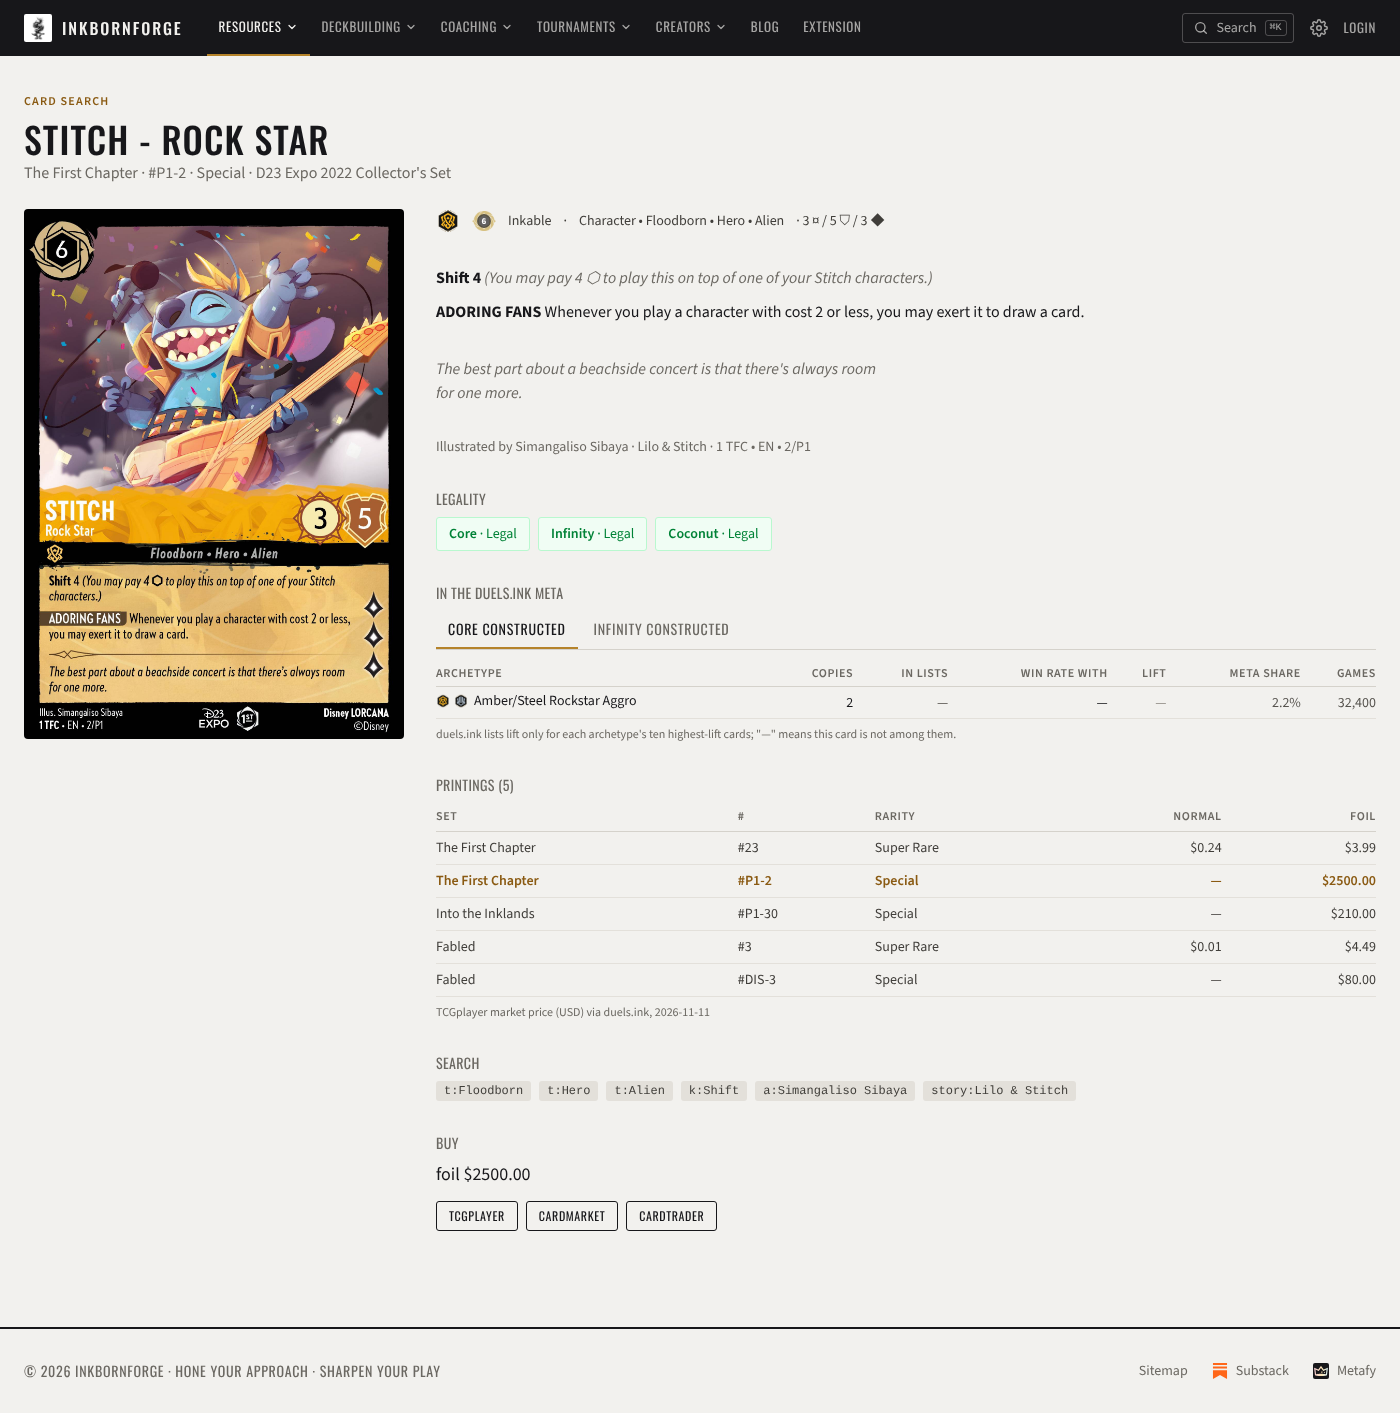
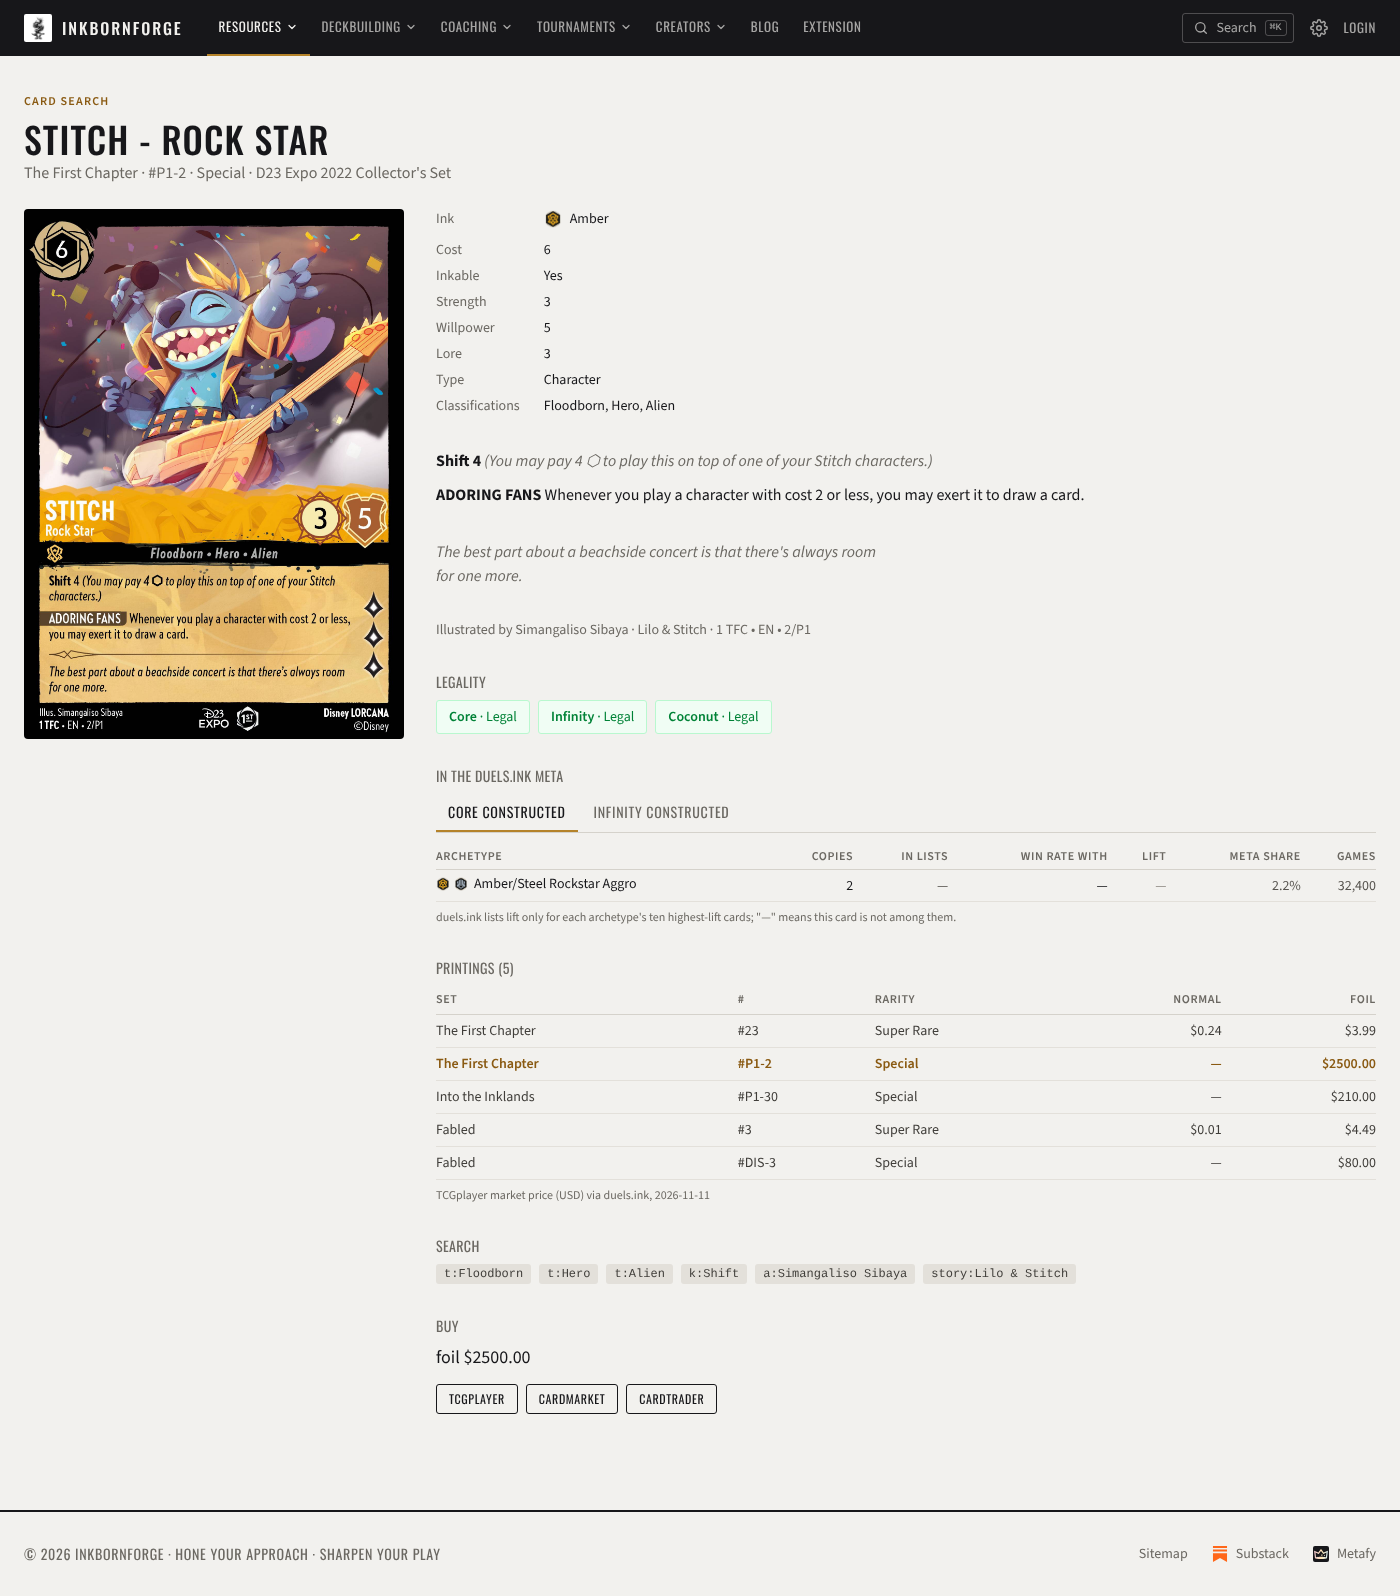
Card page: the card's basics as plain labeled rows
At the user's request the symbol line (ink icon, cost emblem, "4 ¤ / 6 ⛉ /
3 ◆") becomes labeled rows: Ink, Cost, Inkable, Strength, Willpower,
Lore, Move cost, Type, Classifications. Stats a card type does not have
are left out (an Action shows no Strength; a Location shows Move cost);
dual inks read "Amber, Steel", quest cards with no ink "None".

Claude-Session: https://claude.ai/code/session_01TJQgszhZ2yF1gkJNK27vPD

diff --git a/src/pages/CardPage.jsx b/src/pages/CardPage.jsx
@@ -7,7 +7,6 @@ import { printingPrice, priceLabel } from '../lib/cardPrices'
 import { FORMATS, legality } from '../lib/cardLegality'
 import { resolveColors } from '../lib/inkColors'
 import { InkIcons } from '../components/InkIcons'
-import { CostBadge } from '../components/DecklistCardBar'
 import { CardMetaSection } from '../components/CardMetaSection'
 import { Button } from '../components/ui/Button'
 
@@ -78,6 +77,24 @@ export function CardPage() {
   // An Action's effect is in `effects`, not `abilities` (a song's abilities
   // hold only its sing reminder), so the rules text is both, in that order.
   const abilities = [...(card.abilities ?? []), ...(card.effects ?? []).map(fullText => ({ fullText }))]
+  // The card's basics in plain words, one per row; stats a card type does not
+  // have (an Action's strength) are left out rather than shown as blanks.
+  const stats = [
+    ['Ink', (
+      <span className="inline-flex items-center gap-2">
+        <InkIcons colors={colors} size={18} />
+        {card.color ? card.color.split('-').join(', ') : 'None'}
+      </span>
+    )],
+    ['Cost', card.cost],
+    ['Inkable', card.inkwell ? 'Yes' : 'No'],
+    ...(card.strength != null ? [['Strength', card.strength]] : []),
+    ...(card.willpower != null ? [['Willpower', card.willpower]] : []),
+    ...(card.lore != null ? [['Lore', card.lore]] : []),
+    ...(card.moveCost != null ? [['Move cost', card.moveCost]] : []),
+    ['Type', card.type],
+    ...(card.subtypes?.length ? [['Classifications', card.subtypes.join(', ')]] : []),
+  ]
   const quickSearches = [
     ...(card.subtypes ?? []).map(s => ['t', s]),
     ...(card.keywordAbilities ?? []).map(k => ['k', k]),
@@ -97,15 +114,14 @@ export function CardPage() {
         <img src={card.images.full} alt={card.fullName} className="w-full rounded-xl" />
 
         <div className="space-y-8 min-w-0">
-          <div className="flex flex-wrap items-center gap-3 text-sm text-gray-700">
-            <InkIcons colors={colors} size={24} />
-            <CostBadge cost={card.cost} inkable={card.inkwell} />
-            <span>{card.inkwell ? 'Inkable' : 'Uninkable'}</span>
-            <span>·</span>
-            <span>{card.type}{card.subtypesText ? ` • ${card.subtypesText}` : ''}</span>
-            {card.type === 'Character' && <span>· {card.strength} ¤ / {card.willpower} ⛉ / {card.lore} ◆</span>}
-            {card.type === 'Location' && <span>· {card.willpower} ⛉ / {card.lore} ◆ · move {card.moveCost}</span>}
-          </div>
+          <dl className="grid grid-cols-[max-content_1fr] gap-x-6 gap-y-1.5 text-sm">
+            {stats.map(([label, value]) => (
+              <div key={label} className="contents">
+                <dt className="text-gray-500">{label}</dt>
+                <dd className="text-gray-900">{value}</dd>
+              </div>
+            ))}
+          </dl>
 
           {abilities.length > 0 && (
             <div className="space-y-2 text-gray-900 leading-relaxed">
